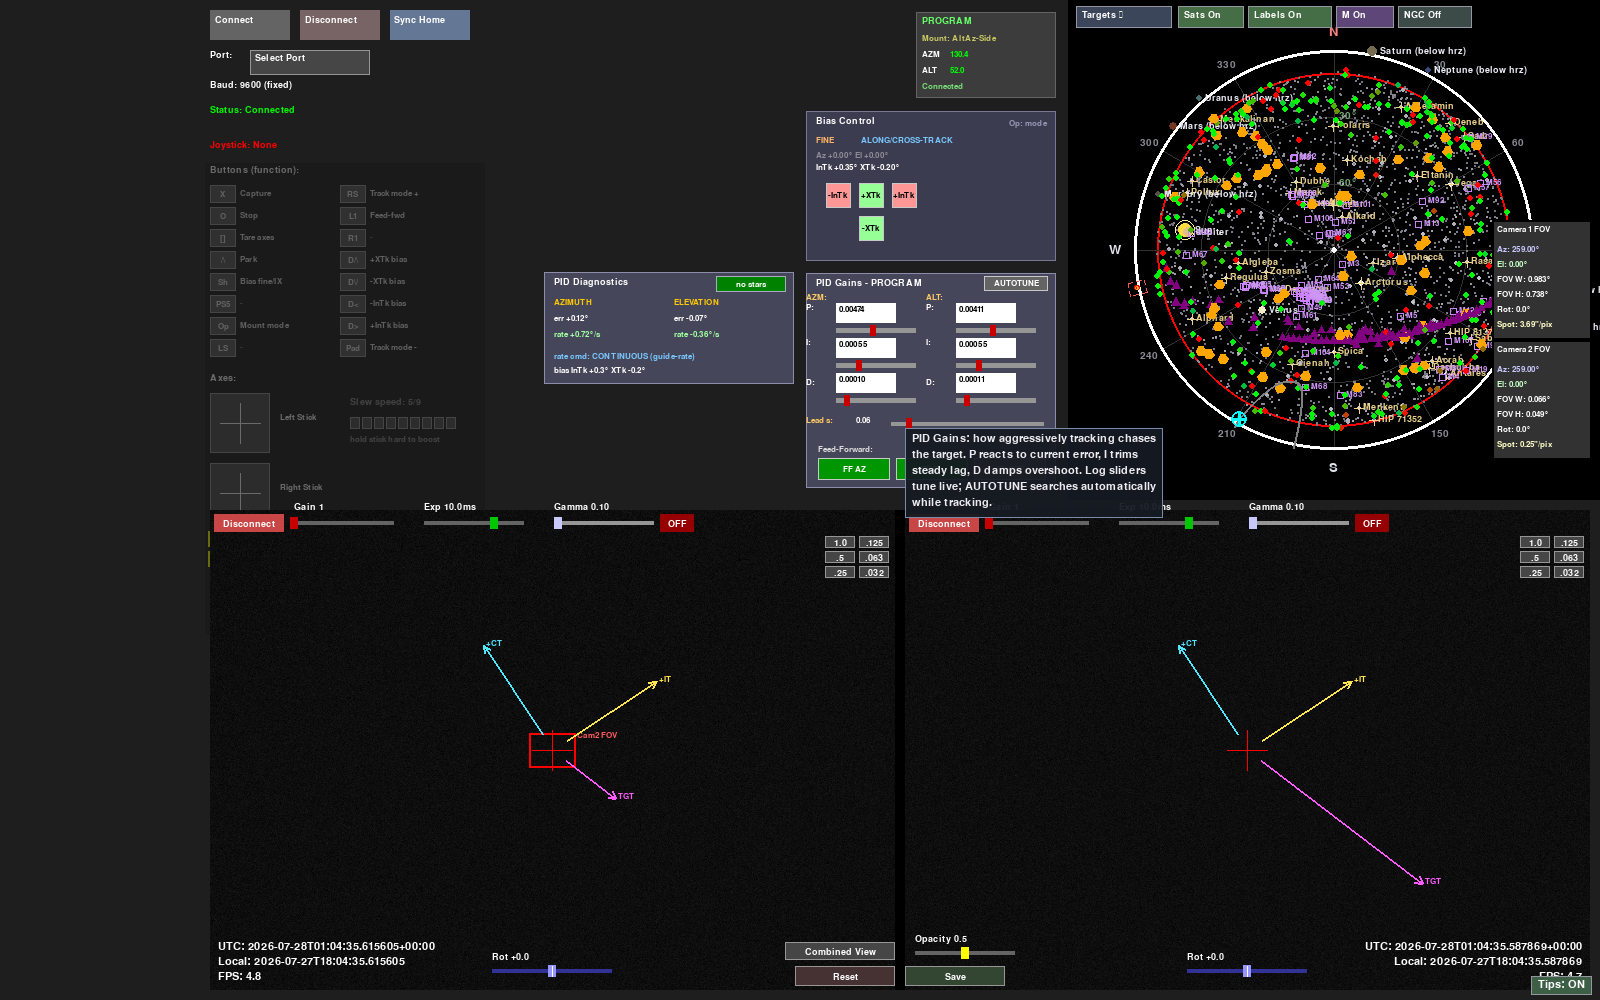
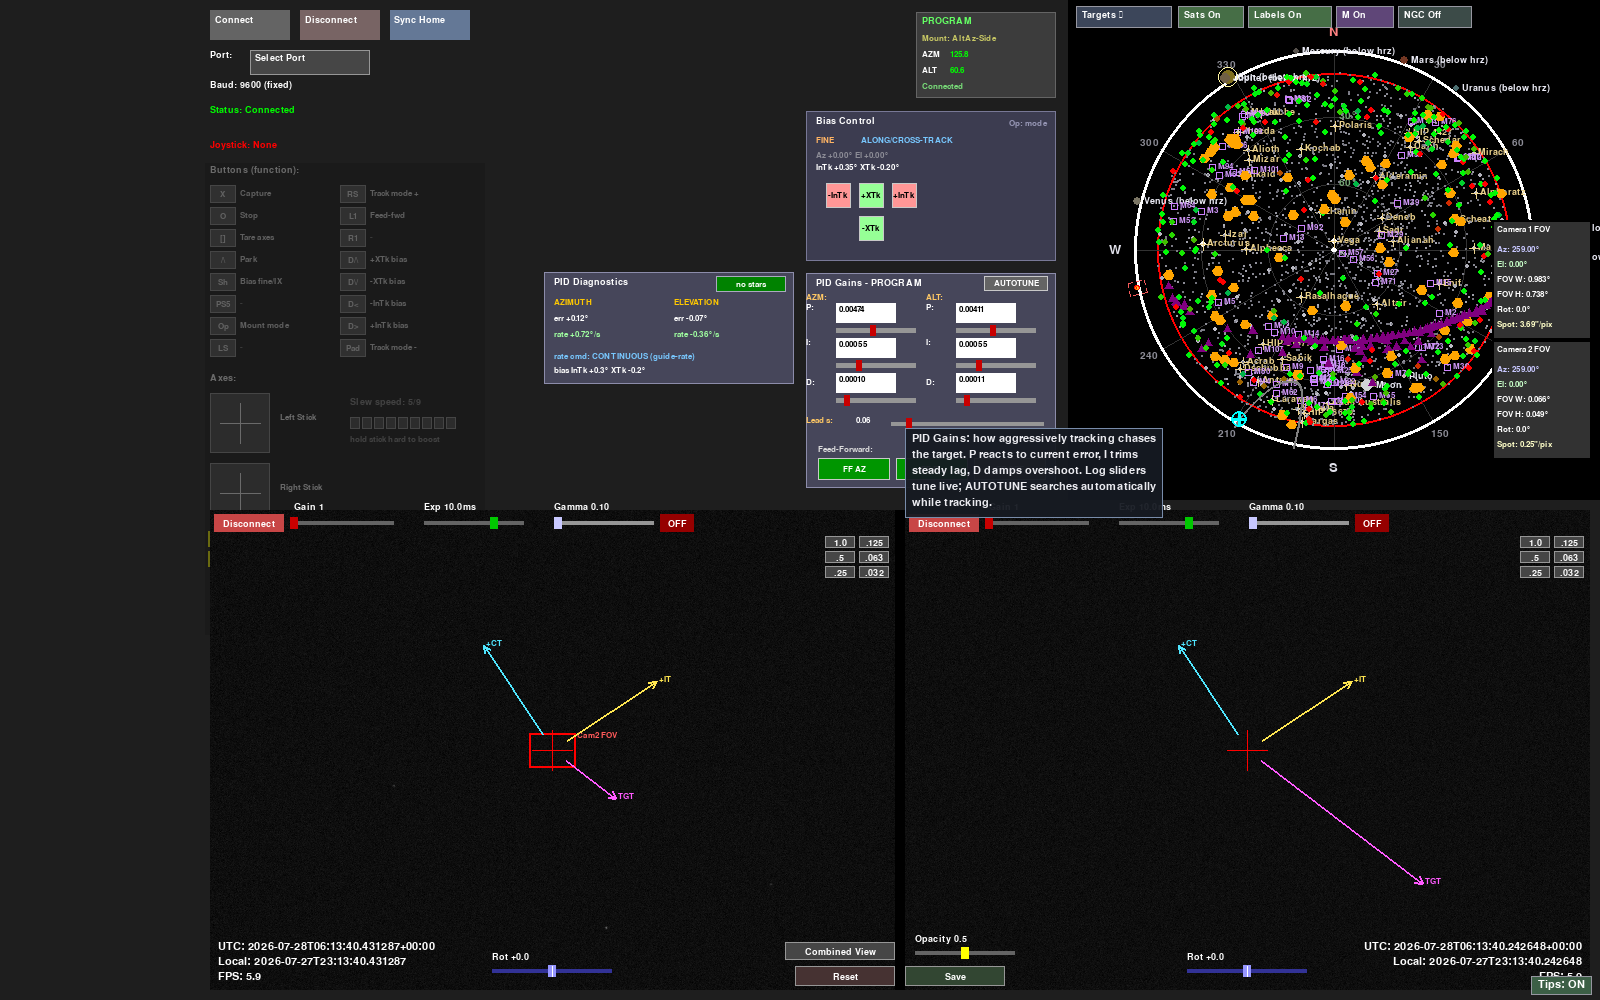
Field feedback: toggles to lower-right, click-filterable legend, TRUE-north reminder
Three fixes from the near-ISS hardware session:

1. The "Show objects" toggle column sat on the tracking-vis left panel,
   underneath the pass-selection table. Moved to the lower-right corner,
   stacked directly above the orbit legend (full legend width), clear of
   every overlay.

2. The orbit legend is now interactive: LEFT-click on the LEO altitude
   gradient sets the show-only-above filter, RIGHT-click sets show-only-
   below (tick marks show the active filters; 10 km steps), and clicking
   the MEO / GEO rows toggles those orbit classes on the plot (new
   persisted config flags meo_enabled/geo_enabled, honored by
   draw_satellites_on_surface with class tests that mirror the marker-shape
   branches; rows grey out when hidden). Tooltips explain all three.

3. The ISS was missed because the mount was aligned to MAGNETIC north.
   The config field is now labeled "Azimuth Align (deg, TRUE N):" and its
   hover tooltip spells it out: enable Settings > Compass > 'Use True
   North' on iPhone before pre-aligning, or add the local declination
   (~12 deg here -- exactly an ISS-sized miss). Config-screen fields join
   the tooltip system via display.input_rects (site, offsets, limits).

test_tooltips.py grows legend-interactivity coverage (gradient left/right
filter set, row toggles, right-click not a toggle, config round-trip);
all 9 pass. Screenshots refreshed with the new corner stack.

Changed region(s): [[0.7188, 0.031, 0.9688, 0.434], [0.8438, 0.93, 1.0, 0.961], [0.1875, 0.93, 0.25, 0.992]]

diff --git a/tracking_visuals.py b/tracking_visuals.py
@@ -440,32 +440,89 @@ def draw_filters(display, state, rects=None):
                             (filter_below_alt_rect.x + 5 + start_width, filter_below_alt_rect.y + 5,
                              end_width - start_width, 20), 2)
 
-def draw_legend(display):
-    """
-    State-direct mutation function for drawing orbit legend.
-    Takes display object directly instead of individual parameters.
-    """
-    pygame.draw.rect(display.menu_screen, (50, 50, 50), (display.legend_x, display.legend_y, 150, 140))  # Larger legend
-    pygame.draw.line(display.menu_screen, (255, 255, 255), (display.legend_x, display.legend_y + 20), (display.legend_x + 150, display.legend_y + 20), 1)  # Title line
+LEGEND_GRADIENT_MAX_KM = 1000.0
+
+
+def draw_legend(display, state=None, config_state=None):
+    """Orbit legend -- now interactive: left/right click on the altitude
+    gradient sets the above/below altitude filters, and clicking the MEO/GEO
+    rows toggles those orbit classes on the plot (config meo/geo_enabled;
+    rows grey out when hidden). Publishes state.legend_rects for the click
+    handler and the hover tooltips."""
+    lx, ly = display.legend_x, display.legend_y
+    pygame.draw.rect(display.menu_screen, (50, 50, 50), (lx, ly, 150, 140))  # Larger legend
+    pygame.draw.line(display.menu_screen, (255, 255, 255), (lx, ly + 20), (lx + 150, ly + 20), 1)  # Title line
     legend_title = display.small_font.render("Orbit Legend", True, (255, 255, 255))
-    display.menu_screen.blit(legend_title, (display.legend_x + 5, display.legend_y + 5))
+    display.menu_screen.blit(legend_title, (lx + 5, ly + 5))
     # LEO heatmap
     for i in range(150):
-        alt = i / 150 * 1000  # Scale from 0 to 1000 km
+        alt = i / 150 * LEGEND_GRADIENT_MAX_KM
         color = get_altitude_color(alt) or (0, 255, 0)  # Fallback to green if out of range
-        pygame.draw.line(display.menu_screen, color, (display.legend_x + i, display.legend_y + 40), (display.legend_x + i, display.legend_y + 60))
+        pygame.draw.line(display.menu_screen, color, (lx + i, ly + 40), (lx + i, ly + 60))
+    # Filter markers on the gradient when altitude filters are set.
+    if state is not None:
+        for text, col in ((getattr(state, 'filter_above_alt_text', ''), (255, 255, 255)),
+                          (getattr(state, 'filter_below_alt_text', ''), (30, 30, 30))):
+            try:
+                frac = min(1.0, max(0.0, float(text) / LEGEND_GRADIENT_MAX_KM))
+                pygame.draw.line(display.menu_screen, col,
+                                 (lx + int(frac * 149), ly + 38),
+                                 (lx + int(frac * 149), ly + 62), 2)
+            except ValueError:
+                pass
     low_alt = display.small_font.render("0 km", True, (255, 255, 255))
     high_alt = display.small_font.render("1000 km", True, (255, 255, 255))
-    display.menu_screen.blit(low_alt, (display.legend_x, display.legend_y + 70))
-    display.menu_screen.blit(high_alt, (display.legend_x + 140, display.legend_y + 70))
-    # MEO hexagon
-    draw_hexagon(display.menu_screen, display.legend_x + 20, display.legend_y + 90, (255, 165, 0))  # Orange
-    meo_label = display.small_font.render("MEO (Orange)", True, (255, 255, 255))
-    display.menu_screen.blit(meo_label, (display.legend_x + 40, display.legend_y + 85))
-    # GEO triangle with line break
-    draw_triangle(display.menu_screen, display.legend_x + 20, display.legend_y + 110, (128, 0, 128))  # Purple
-    geo_label = display.small_font.render("GEO (Purple)", True, (255, 255, 255))
-    display.menu_screen.blit(geo_label, (display.legend_x + 40, display.legend_y + 105))
+    display.menu_screen.blit(low_alt, (lx, ly + 70))
+    display.menu_screen.blit(high_alt, (lx + 140, ly + 70))
+    # MEO / GEO rows, greyed when toggled off.
+    meo_on = config_state is None or getattr(config_state, 'meo_enabled', True)
+    geo_on = config_state is None or getattr(config_state, 'geo_enabled', True)
+    draw_hexagon(display.menu_screen, lx + 20, ly + 90,
+                 (255, 165, 0) if meo_on else (95, 75, 45))
+    meo_label = display.small_font.render(
+        "MEO (Orange)" if meo_on else "MEO (off)", True,
+        (255, 255, 255) if meo_on else (120, 120, 120))
+    display.menu_screen.blit(meo_label, (lx + 40, ly + 85))
+    draw_triangle(display.menu_screen, lx + 20, ly + 110,
+                  (128, 0, 128) if geo_on else (65, 45, 65))
+    geo_label = display.small_font.render(
+        "GEO (Purple)" if geo_on else "GEO (off)", True,
+        (255, 255, 255) if geo_on else (120, 120, 120))
+    display.menu_screen.blit(geo_label, (lx + 40, ly + 105))
+
+    if state is not None:
+        state.legend_rects = {
+            'gradient': pygame.Rect(lx, ly + 36, 150, 40),
+            'meo': pygame.Rect(lx + 5, ly + 82, 140, 20),
+            'geo': pygame.Rect(lx + 5, ly + 102, 140, 20),
+        }
+
+
+def handle_legend_click(state, config_state, pos, button):
+    """Legend interactivity: LEFT click on the gradient sets the 'above'
+    altitude filter, RIGHT click sets the 'below' filter (click again at the
+    same spot... just edit the filter boxes to clear); clicking MEO/GEO
+    toggles those classes. Returns True if the click was consumed."""
+    rects = getattr(state, 'legend_rects', None) or {}
+    grad = rects.get('gradient')
+    if grad and grad.collidepoint(pos) and button in (1, 3):
+        frac = min(1.0, max(0.0, (pos[0] - grad.x) / max(1, grad.width - 1)))
+        alt_km = round(frac * LEGEND_GRADIENT_MAX_KM / 10.0) * 10  # 10 km steps
+        if button == 1:
+            state.filter_above_alt_text = str(int(alt_km))
+        else:
+            state.filter_below_alt_text = str(int(alt_km))
+        return True
+    if button == 1 and config_state is not None:
+        meo = rects.get('meo')
+        if meo and meo.collidepoint(pos):
+            config_state.meo_enabled = not getattr(config_state, 'meo_enabled', True)
+            return True
+        geo = rects.get('geo')
+        if geo and geo.collidepoint(pos):
+            config_state.geo_enabled = not getattr(config_state, 'geo_enabled', True)
+            return True
+    return False
 
 
 def draw_camera_fov_details(display, state, y_offset, mode=PolarPlotMode.FULL_SCREEN):
@@ -624,11 +681,12 @@ OBJECT_TOGGLES = (
 
 
 def draw_object_toggles(display, state, config_state):
-    """Column of object-type show/hide buttons on the tracking-vis left panel
-    (below the satellite count). Publishes state.object_toggle_rects for
-    handle_object_toggle_click."""
-    x = display.sub_x + 10
-    y = display.sub_y + 270
+    """Column of object-type show/hide buttons in the LOWER-RIGHT corner,
+    stacked directly above the orbit legend (the old left-panel spot sat
+    underneath the pass-selection table). Publishes state.object_toggle_rects
+    for handle_object_toggle_click."""
+    x = display.legend_x
+    y = display.legend_y - 10 - (22 + len(OBJECT_TOGGLES) * 26)
     label = display.small_font.render("Show objects:", True, (255, 255, 255))
     display.menu_screen.blit(label, (x, y))
     y += 22
@@ -636,7 +694,7 @@ def draw_object_toggles(display, state, config_state):
     rects = {}
     for attr, name, default in OBJECT_TOGGLES:
         on = bool(getattr(config_state, attr, default))
-        rect = pygame.Rect(x, y, 110, 22)
+        rect = pygame.Rect(x, y, 150, 22)
         base = (70, 110, 70) if on else (90, 70, 70)
         col = tuple(min(255, c + 25) for c in base) if rect.collidepoint(mouse_pos) else base
         pygame.draw.rect(display.menu_screen, col, rect)

diff --git a/test_tooltips.py b/test_tooltips.py
@@ -93,6 +93,64 @@ class TestHoverPick(unittest.TestCase):
                          "no tooltip may render while disabled")
 
 
+class TestLegendInteractivity(unittest.TestCase):
+    """The clickable orbit legend: gradient sets altitude filters (left =
+    above, right = below), MEO/GEO rows toggle their orbit classes."""
+
+    def setUp(self):
+        from tracking_visuals import LEGEND_GRADIENT_MAX_KM
+        self.max_km = LEGEND_GRADIENT_MAX_KM
+        self.state = SimpleNamespace(
+            filter_above_alt_text="", filter_below_alt_text="",
+            legend_rects={
+                'gradient': pygame.Rect(1000, 800, 150, 40),
+                'meo': pygame.Rect(1005, 842, 140, 20),
+                'geo': pygame.Rect(1005, 862, 140, 20),
+            })
+        self.cfg = SimpleNamespace(meo_enabled=True, geo_enabled=True)
+
+    def test_gradient_left_sets_above_filter(self):
+        from tracking_visuals import handle_legend_click
+        # Click mid-gradient -> ~500 km above-filter.
+        grad = self.state.legend_rects['gradient']
+        self.assertTrue(handle_legend_click(
+            self.state, self.cfg, (grad.x + grad.width // 2, grad.centery), 1))
+        self.assertAlmostEqual(float(self.state.filter_above_alt_text),
+                               self.max_km / 2, delta=20)
+        self.assertEqual(self.state.filter_below_alt_text, "")
+
+    def test_gradient_right_sets_below_filter(self):
+        from tracking_visuals import handle_legend_click
+        grad = self.state.legend_rects['gradient']
+        self.assertTrue(handle_legend_click(
+            self.state, self.cfg, (grad.right - 1, grad.centery), 3))
+        self.assertAlmostEqual(float(self.state.filter_below_alt_text),
+                               self.max_km, delta=20)
+
+    def test_meo_geo_rows_toggle(self):
+        from tracking_visuals import handle_legend_click
+        self.assertTrue(handle_legend_click(
+            self.state, self.cfg, self.state.legend_rects['meo'].center, 1))
+        self.assertFalse(self.cfg.meo_enabled)
+        self.assertTrue(handle_legend_click(
+            self.state, self.cfg, self.state.legend_rects['geo'].center, 1))
+        self.assertFalse(self.cfg.geo_enabled)
+        # Right-click on a row is NOT a toggle; miss consumes nothing.
+        self.assertFalse(handle_legend_click(
+            self.state, self.cfg, self.state.legend_rects['meo'].center, 3))
+        self.assertFalse(handle_legend_click(self.state, self.cfg, (0, 0), 1))
+
+    def test_meo_geo_config_round_trip(self):
+        from config import ConfigState
+        cfg = ConfigState()
+        self.assertTrue(cfg.meo_enabled and cfg.geo_enabled)
+        cfg.meo_enabled = False
+        cfg2 = ConfigState()
+        cfg2.load_from_dict(cfg.get_config_dict())
+        self.assertFalse(cfg2.meo_enabled)
+        self.assertTrue(cfg2.geo_enabled)
+
+
 class TestWrap(unittest.TestCase):
     def test_wrap_bounds(self):
         lines = tooltips._wrap("word " * 40)

diff --git a/tooltips.py b/tooltips.py
@@ -79,6 +79,26 @@ CONN_TIPS = [
     ("sync", "Tell the mount that its current position is its home/zero reference."),
 ]
 
+LEGEND_TIPS = {
+    'gradient': "LEO altitude color scale. LEFT-click an altitude to show only satellites ABOVE it; RIGHT-click to show only ones BELOW it. Tick marks show the active filters; clear them in the filter boxes.",
+    'meo': "Click to show/hide MEO satellites (orange hexagons - GPS, GLONASS, Galileo...).",
+    'geo': "Click to show/hide GEO satellites (purple triangles - the geostationary belt).",
+}
+
+CONFIG_TIPS = {
+    'alignment_azimuth': "TRUE north, not magnetic! If you pre-align with a phone compass, enable Settings > Compass > 'Use True North' on iPhone first (or add your local magnetic declination). A magnetic alignment is off by ~12 deg here - plenty to miss the ISS.",
+    'lat': "Observer latitude in decimal degrees (north positive). Drives every pass prediction and pointing solution.",
+    'lon': "Observer longitude in decimal degrees (east positive; US west coast is negative).",
+    'alt': "Observer altitude above sea level, meters.",
+    'elevation_mask': "Ignore sky below this elevation (deg): trees, rooftops, haze. Pass predictions and the red ring on the sky plot use it.",
+    'azm_offset': "Encoder azimuth offset captured by Sync Home - the difference between the mount's raw zero and true north.",
+    'alt_offset': "Encoder altitude offset captured by Sync Home.",
+    'azm_limit_min': "Mount safety limit: slewing stops outside these azimuth bounds.",
+    'azm_limit_max': "Mount safety limit: slewing stops outside these azimuth bounds.",
+    'alt_limit_min': "Mount safety limit: keeps the tube off the tripod and the horizon.",
+    'alt_limit_max': "Mount safety limit: maximum ALT-axis angle.",
+}
+
 MISC_TIPS = {
     'capture': "Record camera frames to disk while tracking - stop to save the labeled dataset.",
     'clear_filters': "Clear all satellite name/altitude filters.",
@@ -116,7 +136,16 @@ def _collect(display, config_state, mode, tvs, jms, m3d):
             if t and rect:
                 out.append((rect, t))
 
-    if mode == "tracking_vis" and tvs is not None:
+    if mode == "config_options":
+        for field, rect in (getattr(display, 'input_rects', {}) or {}).items():
+            t = CONFIG_TIPS.get(field)
+            if t and rect:
+                # Include the label line above the input box in the hover zone.
+                out.append((rect.union(pygame.Rect(rect.x, rect.y - 22,
+                                                   rect.width, 22)), t))
+
+    elif mode == "tracking_vis" and tvs is not None:
+        add_map(getattr(tvs, 'legend_rects', None), LEGEND_TIPS)
         add_map(getattr(tvs, 'object_toggle_rects', None), OBJECT_TOGGLE_TIPS)
         for key, tip in FILTER_TIPS.items():
             rect = getattr(display, {'filter': 'filter_rect',

diff --git a/config.py b/config.py
@@ -46,6 +46,8 @@ class ConfigState:
         self.messier_enabled = True            # Messier markers on the skyplot
         self.ngc_enabled = False               # NGC markers (noisy; off by default)
         self.ngc_limiting_magnitude = 10.0     # faintest NGC object shown
+        self.meo_enabled = True                # MEO satellites (legend-click toggle)
+        self.geo_enabled = True                # GEO satellites (legend-click toggle)
 
         # Plate solver (tetra3) configuration
         self.plate_solve_enabled = False       # background plate-solve worker on/off
@@ -328,6 +330,8 @@ class ConfigState:
             "messier_enabled": self.messier_enabled,
             "ngc_enabled": self.ngc_enabled,
             "ngc_limiting_magnitude": self.ngc_limiting_magnitude,
+            "meo_enabled": self.meo_enabled,
+            "geo_enabled": self.geo_enabled,
             "max_rendered_star_count": self.max_rendered_star_count,
             "star_limiting_magnitude": self.star_limiting_magnitude,
             "plate_solve_enabled": self.plate_solve_enabled,
@@ -427,6 +431,8 @@ class ConfigState:
         self.ngc_enabled = config_dict.get("ngc_enabled", self.ngc_enabled)
         self.ngc_limiting_magnitude = config_dict.get(
             "ngc_limiting_magnitude", self.ngc_limiting_magnitude)
+        self.meo_enabled = config_dict.get("meo_enabled", self.meo_enabled)
+        self.geo_enabled = config_dict.get("geo_enabled", self.geo_enabled)
         self.max_rendered_star_count = config_dict.get("max_rendered_star_count", self.max_rendered_star_count)
         self.star_limiting_magnitude = config_dict.get("star_limiting_magnitude", self.star_limiting_magnitude)
         self.plate_solve_enabled = config_dict.get("plate_solve_enabled", self.plate_solve_enabled)
@@ -952,7 +958,9 @@ def draw_config_options(display, config_state):
             ('lon', "Longitude:", config_state.lon_str),
             ('alt', "Altitude (m):", config_state.alt_str),
             ('elevation_mask', "Elevation Mask (deg):", config_state.elevation_mask_str),
-            ('alignment_azimuth', "Azimuth Alignment (deg):", config_state.alignment_azimuth_str),
+            # TRUE north, not magnetic: a compass-aligned mount misses passes
+            # by the local declination (~12 deg here) -- see the tooltip.
+            ('alignment_azimuth', "Azimuth Align (deg, TRUE N):", config_state.alignment_azimuth_str),
             ('alignment_elevation', "Elevation Align (deg, Eq):", config_state.alignment_elevation_str),
         ]),
         ('mount', "Mount & Limits", [

diff --git a/main.py b/main.py
@@ -621,10 +621,14 @@ while running:
             # Handle tracking_vis events using state-based approach
             elif current_mode == "tracking_vis":
                 try:
-                    # Object-type show/hide toggles get first crack at clicks;
-                    # a consumed click must not fall through to plot selection.
-                    if not (event.type == pygame.MOUSEBUTTONDOWN and event.button == 1
-                            and handle_object_toggle_click(tracking_vis_state, config_state, pos)):
+                    # Object-type toggles + the interactive orbit legend get
+                    # first crack at clicks; a consumed click must not fall
+                    # through to plot selection.
+                    from tracking_visuals import handle_legend_click
+                    if not (event.type == pygame.MOUSEBUTTONDOWN
+                            and ((event.button == 1
+                                  and handle_object_toggle_click(tracking_vis_state, config_state, pos))
+                                 or handle_legend_click(tracking_vis_state, config_state, pos, event.button))):
                         # Handle events using state-based handler
                         handle_tracking_vis_mouse_events_state(tracking_vis_state, event, pos, display, display.button_states)
 
@@ -860,7 +864,7 @@ while running:
 
         # Draw UI elements on top of the polar plot
         draw_filters(display, tracking_vis_state)
-        draw_legend(display)
+        draw_legend(display, tracking_vis_state, config_state)
         draw_details(display, tracking_vis_state)
         draw_camera_fov_details(display, tracking_vis_state, 290)  # Start below satellite details (20+250+20)
         draw_time_display(display)

diff --git a/rendering_threads.py b/rendering_threads.py
@@ -1003,7 +1003,18 @@ def draw_satellites_on_surface(surface, state, cx, cy, display_bounds, mode=Pola
     # is the focus and the dense label cloud is just visual noise (the dots stay).
     hide_labels = bool(getattr(state, 'launch_launched', False) and getattr(state, 'selected_launch', None))
 
+    meo_on = config_state is None or getattr(config_state, 'meo_enabled', True)
+    geo_on = config_state is None or getattr(config_state, 'geo_enabled', True)
+
     for sat, (px, py, alt, _) in satellites_to_draw.items():
+        # Orbit-class visibility (legend-click toggles). Class tests mirror
+        # the marker-shape branches below exactly.
+        _ma = state.satellite_mean_altitudes.get(sat, 0.0)
+        _is_meo = 2000 < _ma <= 35786
+        _is_geo = (not _is_meo) and abs(_ma - 35786) <= 1000
+        if (_is_meo and not meo_on) or (_is_geo and not geo_on):
+            continue
+
         # Satellite positions are absolute screen coordinates
         # Convert to surface coordinates based on mode
 

diff --git a/make_live_screenshots.py b/make_live_screenshots.py
@@ -208,7 +208,7 @@ def main():
         from tracking_visuals import draw_object_toggles
         for fn in (lambda: draw_filters(display, tvs),
                    lambda: draw_object_toggles(display, tvs, cfg),
-                   lambda: draw_legend(display),
+                   lambda: draw_legend(display, tvs, cfg),
                    lambda: draw_details(display, tvs),
                    lambda: draw_camera_fov_details(display, tvs, 290),
                    lambda: draw_time_display(display),
